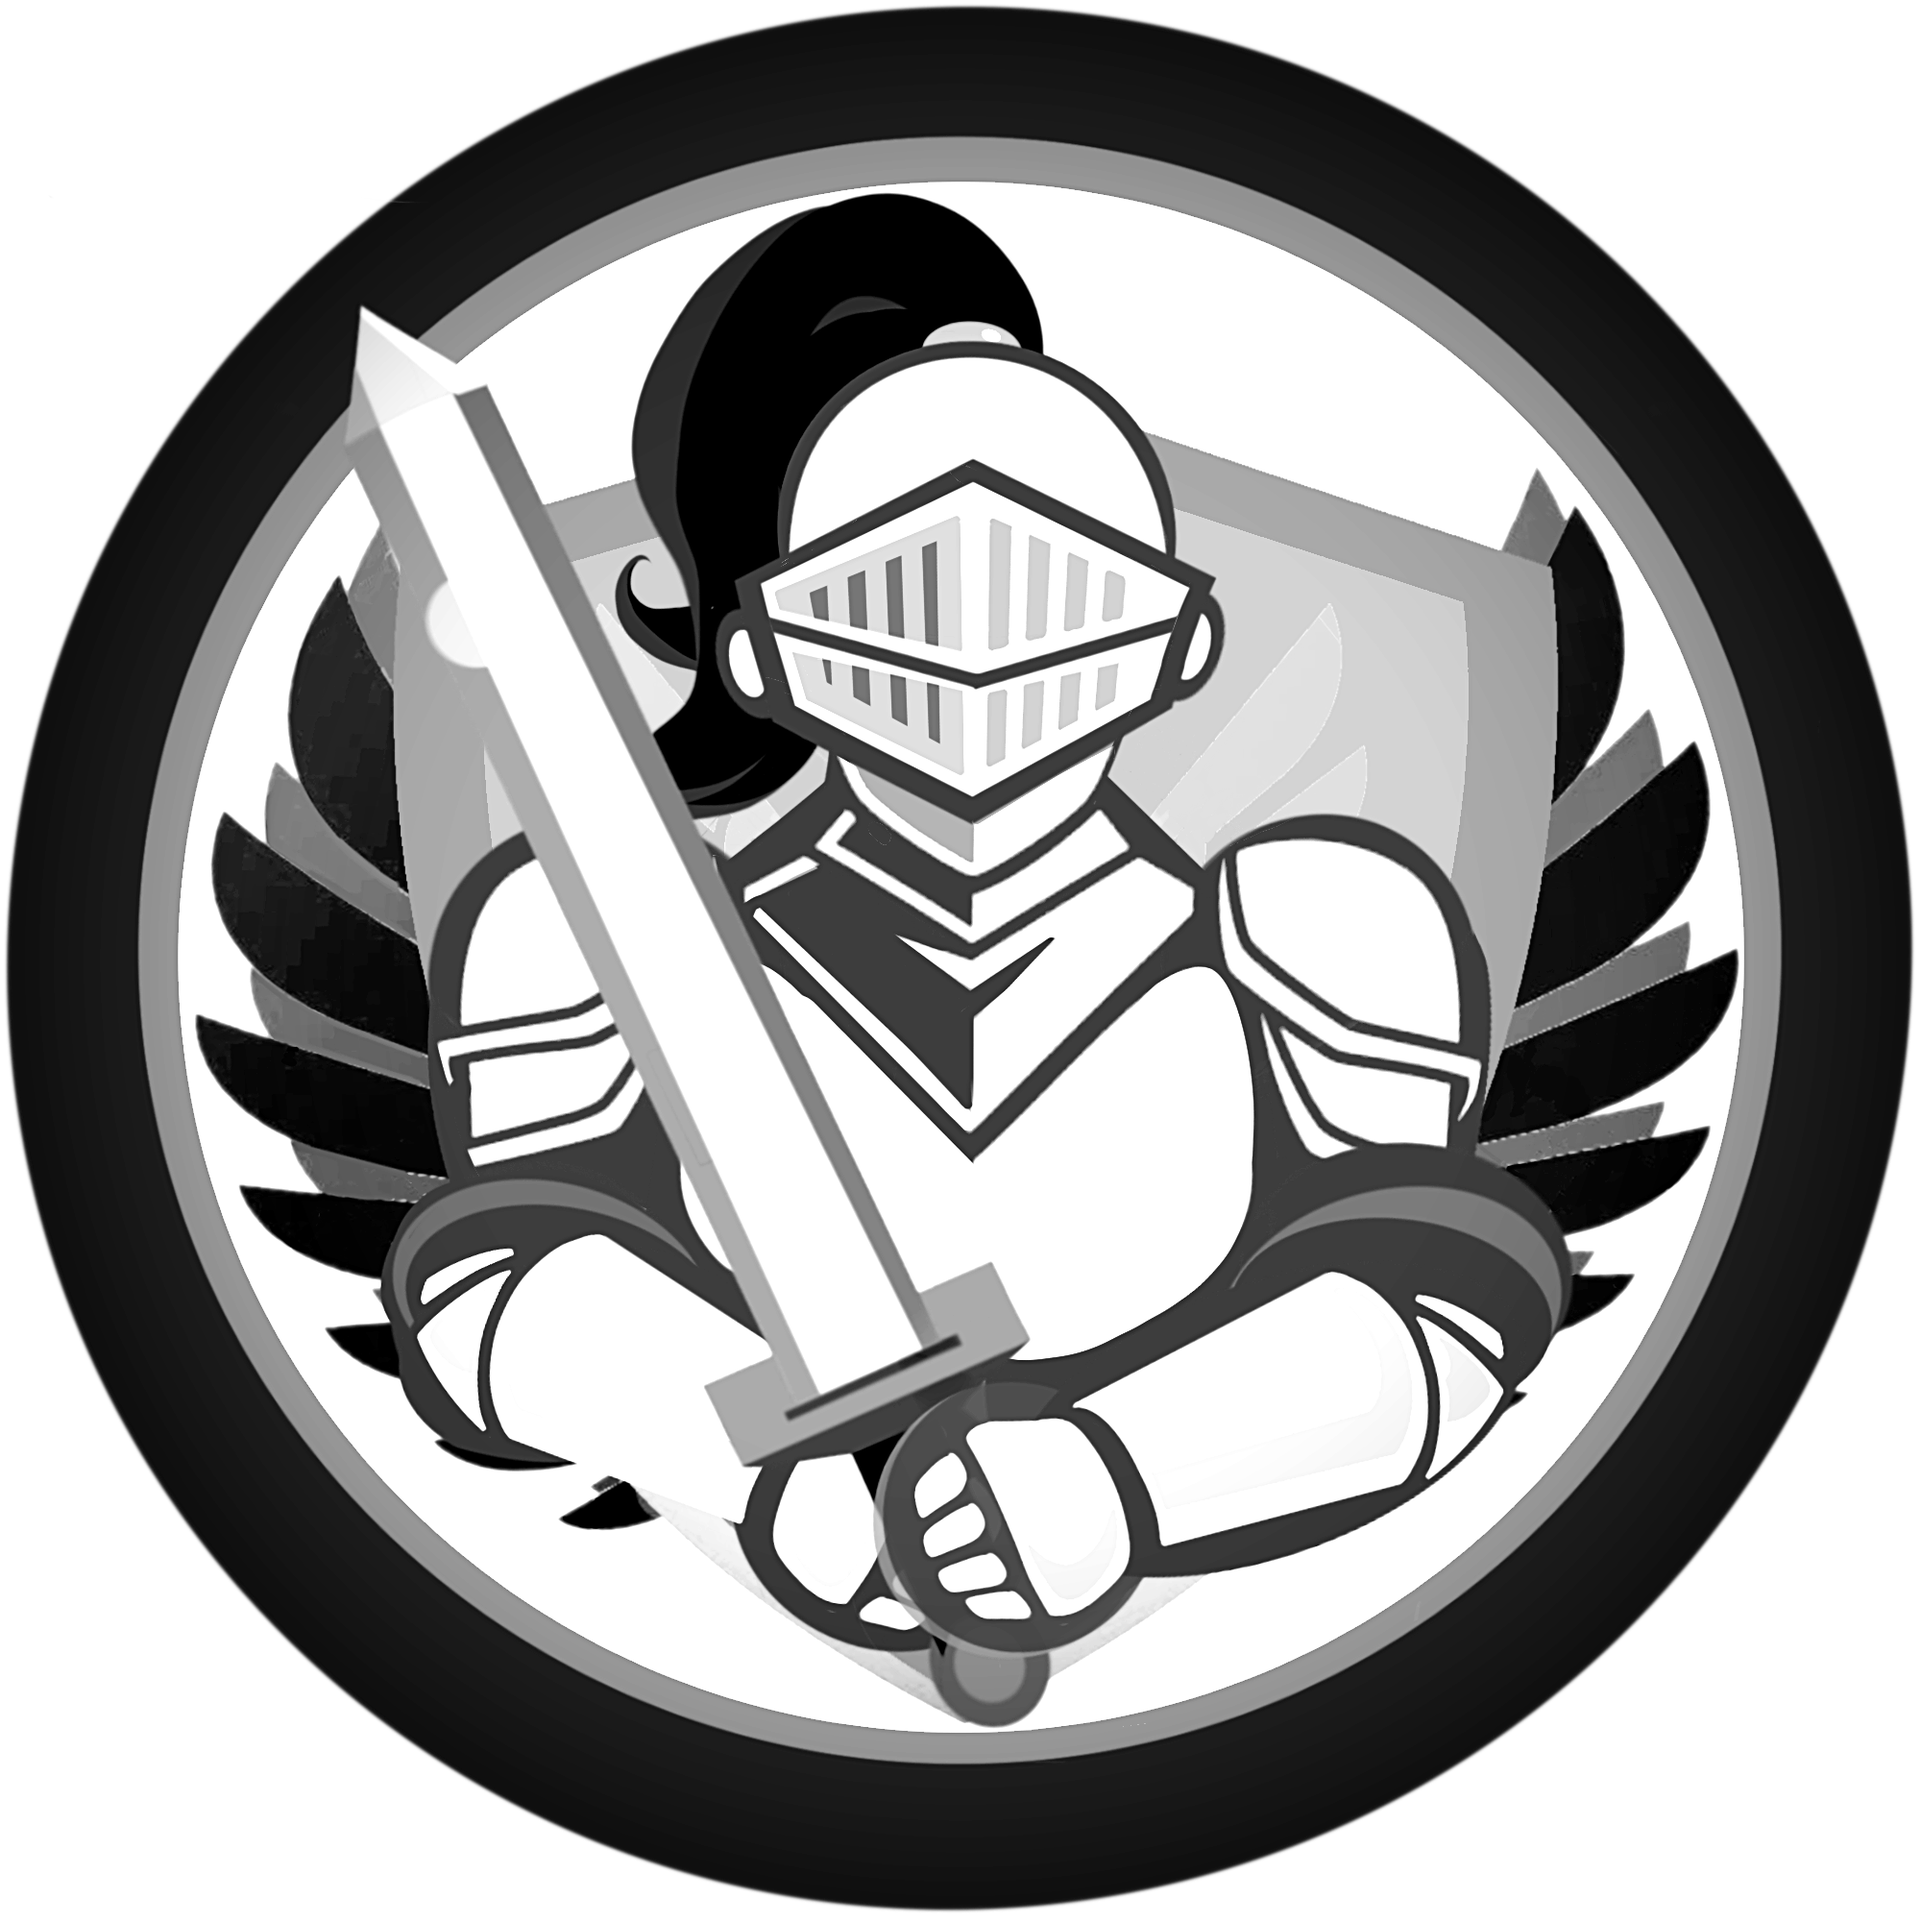
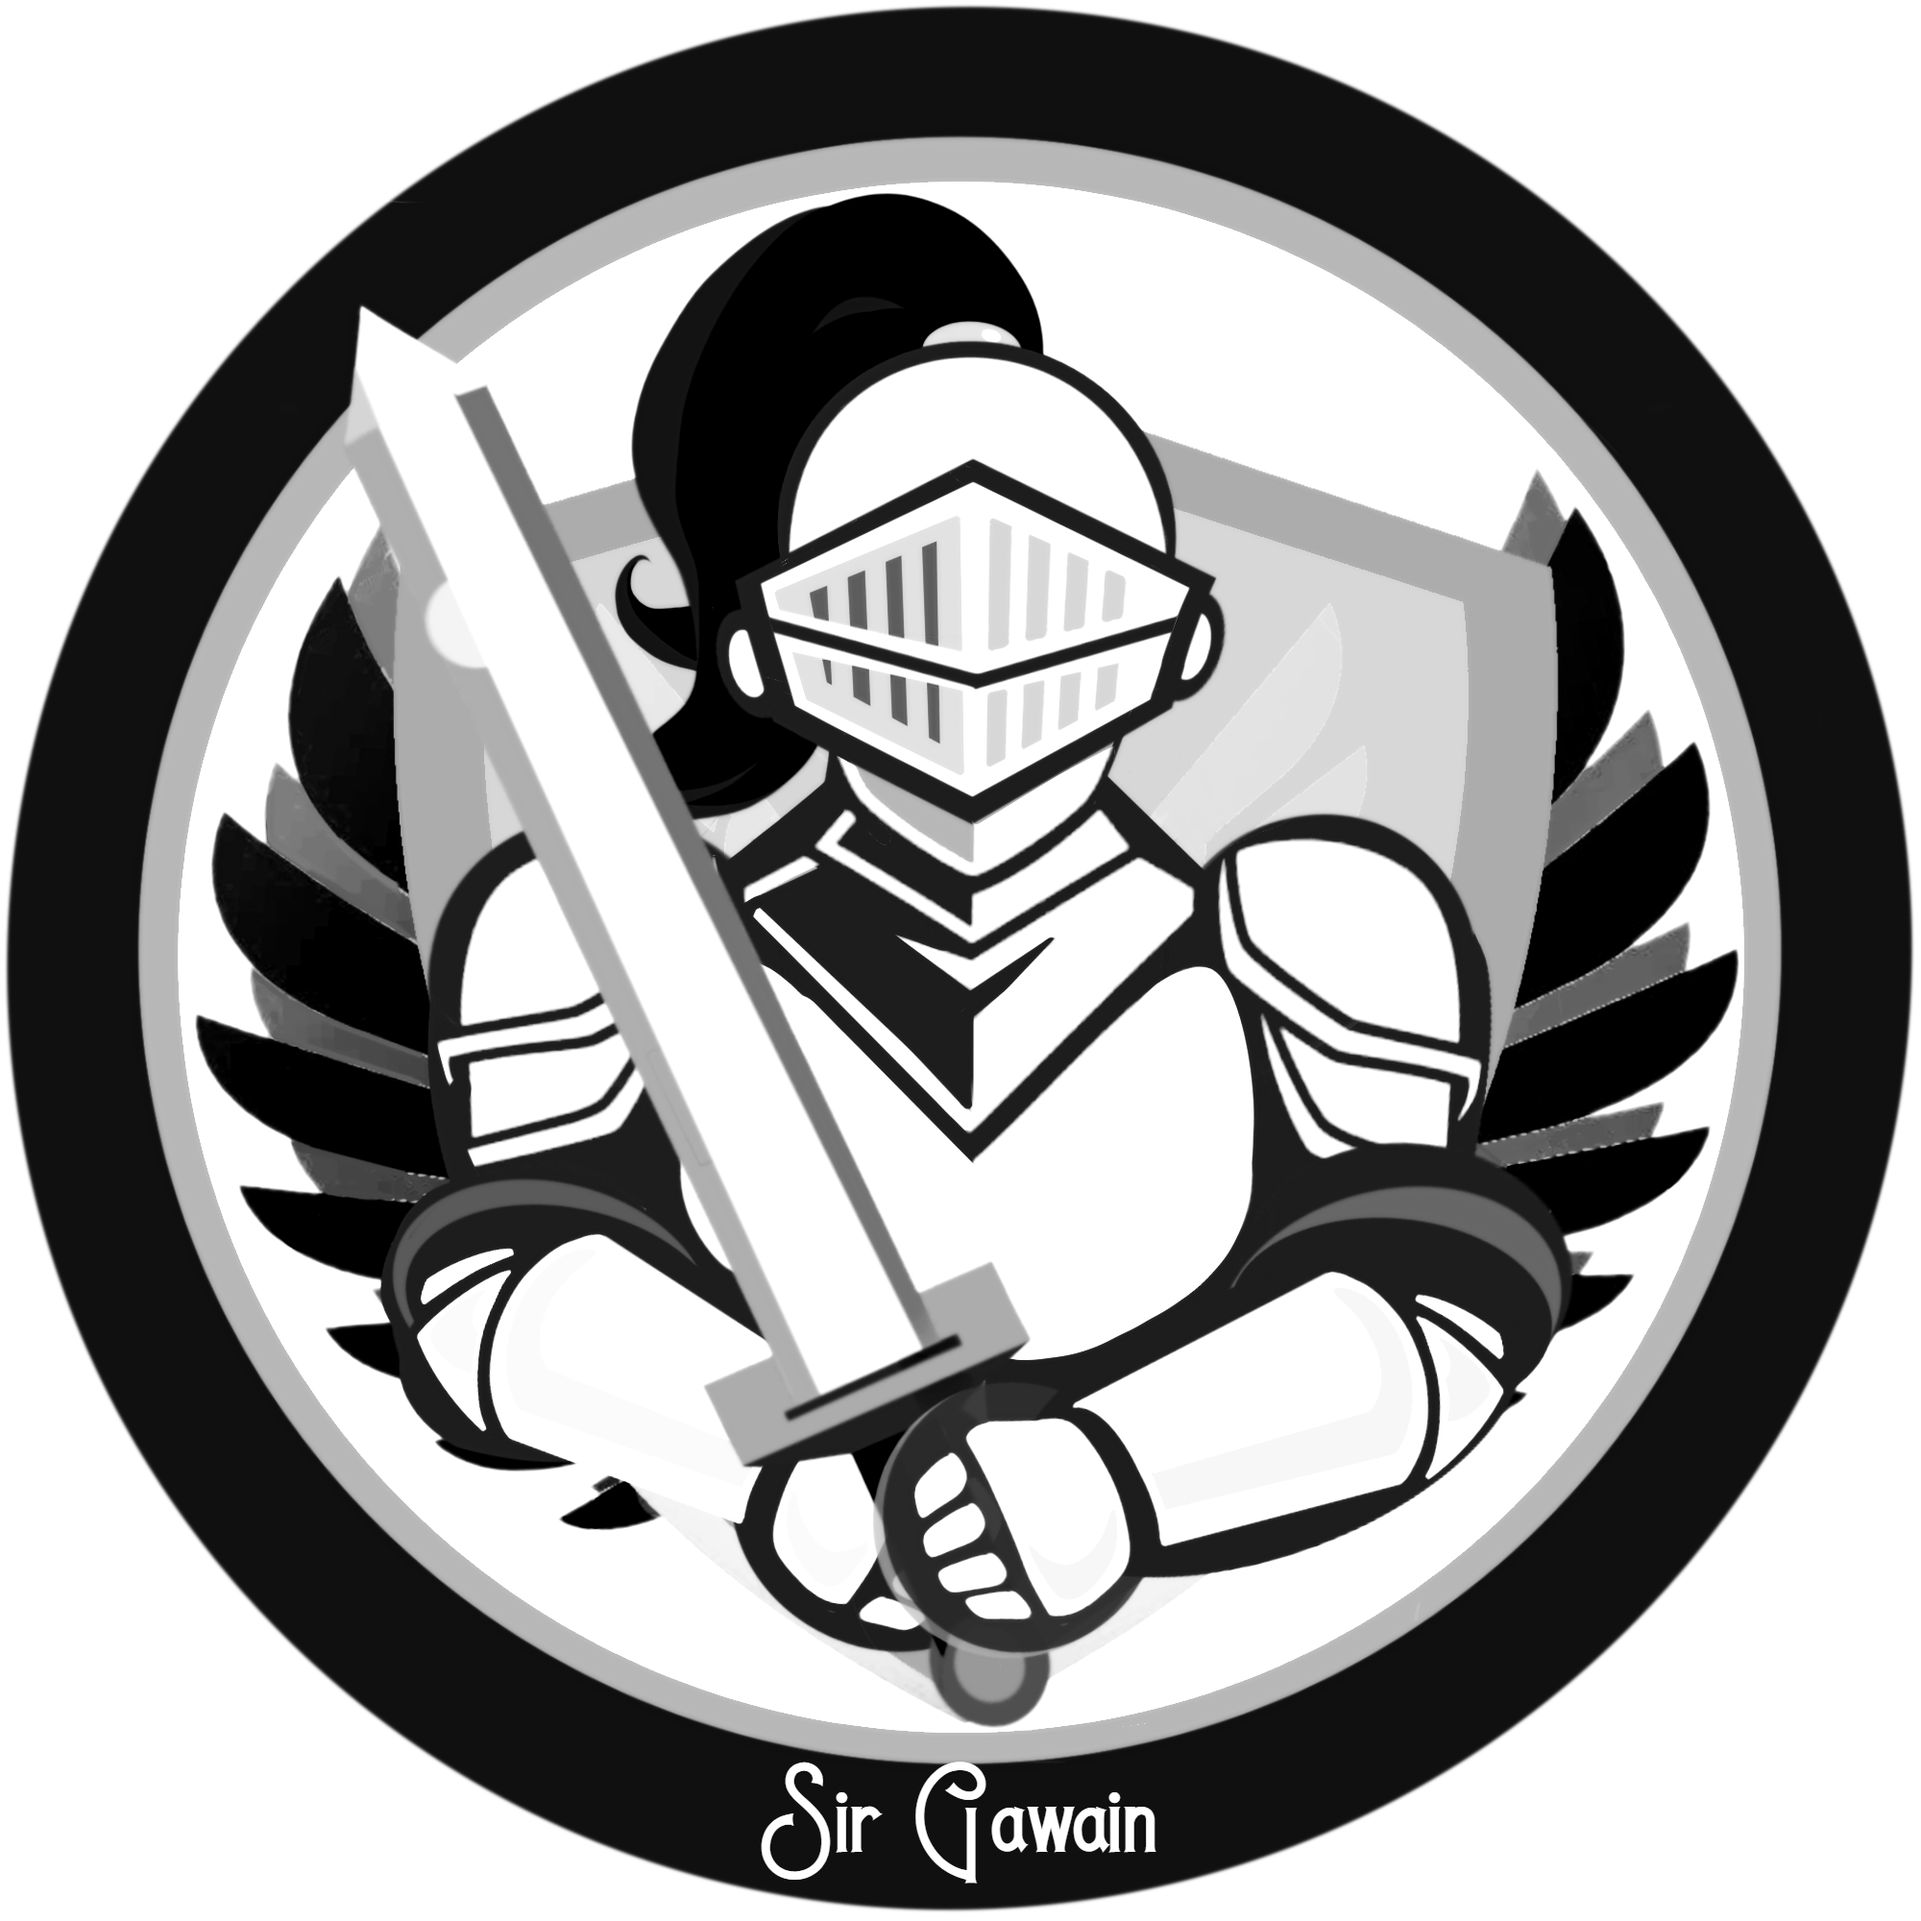
Added/fixed Sir Gawain

diff --git a/src/config/constants/kotrtnfts.ts b/src/config/constants/kotrtnfts.ts
@@ -53,6 +53,19 @@ const KotrtNfts: Nft[] = [
     sortOrder: 999,
     tokenId: 4,
   },
+  {
+    name: 'Sir Gawain',
+    description: 'Sir Gawain - #5',
+    images: {
+      lg: 'SirGawain.png',
+      md: 'SirGawain.png',
+      sm: 'SirGawain.png',
+      ipfs: 'https://ipfs.io/ipfs/QmXYhVY6Djg8MGpHV8rRCKQK2ikmHo4Df2EpSpvz9cz6Pe?filename=SirGawain.png',
+      blur: 'SirGawain.png',
+    },
+    sortOrder: 999,
+    tokenId: 5,
+  },
 ]
 
 export default KotrtNfts
